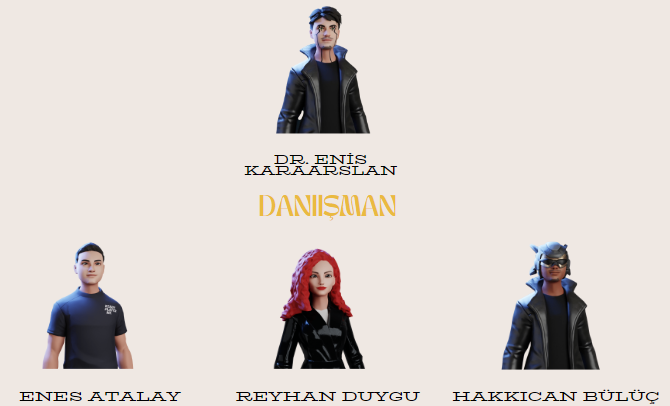
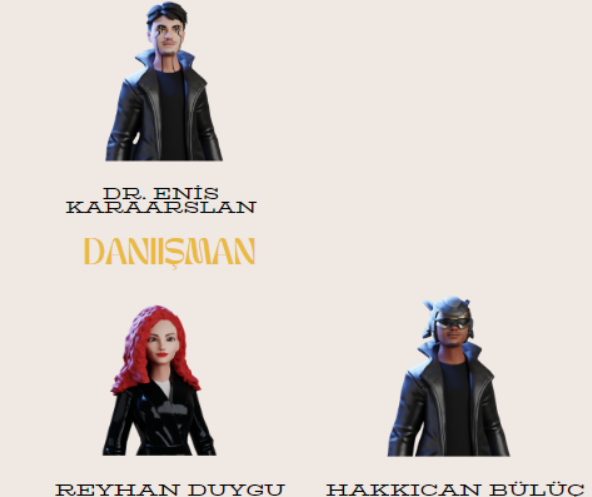
changed photos

diff --git a/src/styles/About.css b/src/styles/About.css
@@ -43,7 +43,7 @@
   align-items: center;
   justify-content: center;
 
-  transform: translateX(400px);
+  transform: translateX(300px);
 }
 .kullanılan{
   transform:translateX(450px);
